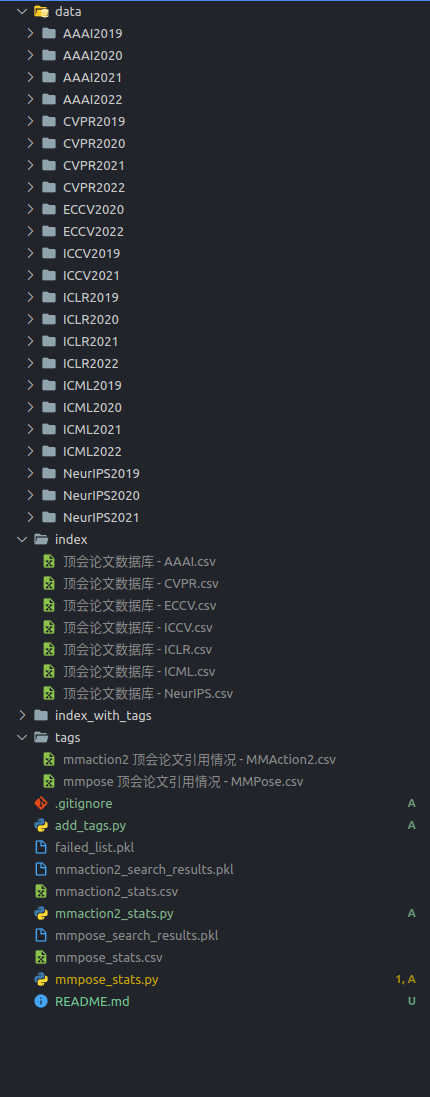
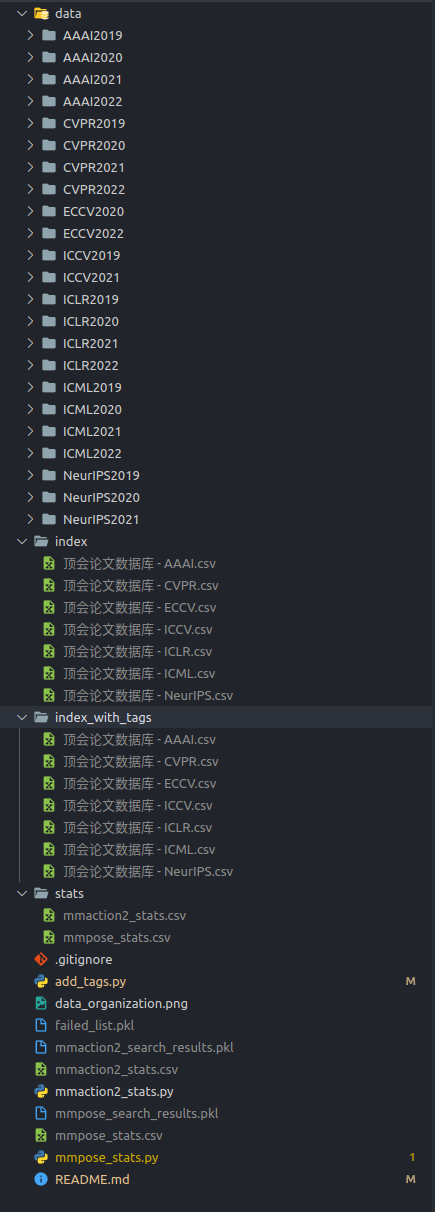
update readme

diff --git a/add_tags.py b/add_tags.py
@@ -7,7 +7,7 @@ def main():
     tagged = dict()
 
     # collect pose/mmpose related papers
-    data = pd.read_csv('tags/mmpose 顶会论文引用情况 - MMPose.csv')
+    data = pd.read_csv('stats/mmpose_stats.csv')
     data = data[(data['relevant'] == 1) | (data['mmpose'] == 1) |
                 (data['alphapose(code)'] == 1) | (data['openpose(code)'] == 1)
                 | (data['detectron2/detr'] == 1) | (data['hrnet (code)'] == 1)
@@ -40,7 +40,7 @@ def main():
         tagged[paper['title']] = paper
 
     # collect action/mmaction2 related papers
-    data = pd.read_csv('tags/mmaction2 顶会论文引用情况 - MMAction2.csv')
+    data = pd.read_csv('stats/mmaction2_stats.csv')
     data = data[(data['relevant'] == 1) | (data['mmaction2'] == 1) |
                 (data['slowfast'] == 1)]
 

diff --git a/README.md b/README.md
@@ -6,7 +6,25 @@ Please download and organize data as the following:
 
 - `data`: paper PDF files
 - `index`: Raw paper list in csv files
-- `tags`: Retrived paper information in csv files (generated by `mmpose_stats.py` and `mmaction2_stats.py`)
+- `stats`: Retrived paper information in csv files (generated by `mmpose_stats.py` and `mmaction2_stats.py`)
 - `index_with_tags`: Paper list with area/codebase tags in csv files (generated by `add_tags.py`)
 
 ![img](./data_organization.png)
+
+## Usage
+
+### Search related papers by keywords
+
+```bash
+# search papers on pose estimation
+python mmpose_stats.py
+# search papers on video understanding
+python mmaction2_stats.py
+```
+
+### Add Tags
+
+```bash
+# generate paper index with tags
+python add_tags.py
+```
